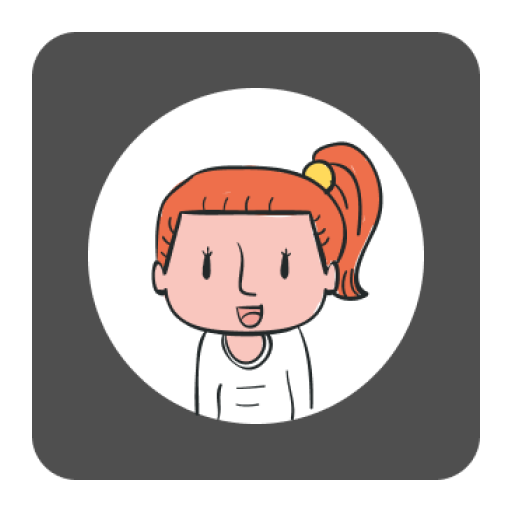
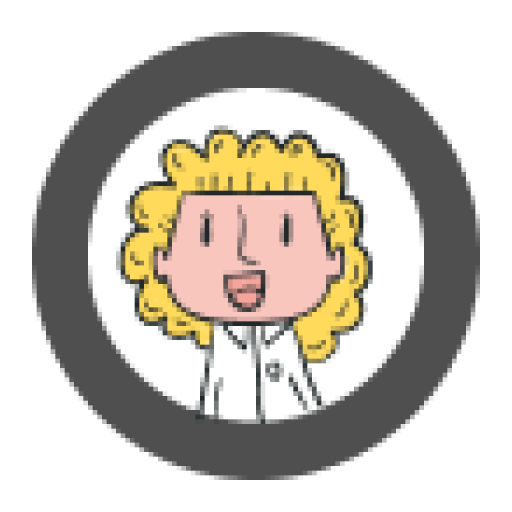
Added custom xml for edit texts and some logic

diff --git a/app/src/main/java/com/shaq/skifme/data/adapters/ObjectsListAdapter.java b/app/src/main/java/com/shaq/skifme/data/adapters/ObjectsListAdapter.java
@@ -37,7 +37,7 @@ public class ObjectsListAdapter extends RecyclerView.Adapter<RecyclerView.ViewHo
 
     class CardViewHolder extends RecyclerView.ViewHolder {
         private final TextView geoItemView, object_place_tv,last_time_tv;
-        private final ImageView avatar_img;
+        private final ImageView avatar_img,ellipse_back_iv;
         private final TextView battery_title;
         private final ConstraintLayout cv_wrapper;
 
@@ -49,6 +49,7 @@ public class ObjectsListAdapter extends RecyclerView.Adapter<RecyclerView.ViewHo
             battery_title = itemView.findViewById(R.id.battery_lvl_tv);
             cv_wrapper = itemView.findViewById(R.id.cv_wrapper);
             last_time_tv = itemView.findViewById(R.id.last_time_tv);
+            ellipse_back_iv = itemView.findViewById(R.id.ellipse_back_iv);
 
             itemView.setOnClickListener(new View.OnClickListener() {
                 @Override public void onClick(View v) {
@@ -66,7 +67,7 @@ public class ObjectsListAdapter extends RecyclerView.Adapter<RecyclerView.ViewHo
     class ButtonViewHolder extends RecyclerView.ViewHolder {
         private final ImageView add_object_btn;
         private final TextView geoItemView, battery_title, object_place_tv,last_time_tv;
-        private final ImageView avatar_img, signal_img,battery_lvl;
+        private final ImageView avatar_img, signal_img,battery_lvl,ellipse_back_iv;
 
         private ButtonViewHolder(View itemView, final Context context) {
             super(itemView);
@@ -78,6 +79,7 @@ public class ObjectsListAdapter extends RecyclerView.Adapter<RecyclerView.ViewHo
             battery_title = itemView.findViewById(R.id.battery_lvl_tv);
             object_place_tv = itemView.findViewById(R.id.object_place_tv);
             last_time_tv = itemView.findViewById(R.id.last_time_tv);
+            ellipse_back_iv = itemView.findViewById(R.id.ellipse_back_iv);
             itemView.setOnClickListener(new View.OnClickListener() {
                 @Override public void onClick(View v) {
                     if(mContext instanceof TopLevelActivity){
@@ -151,6 +153,7 @@ public class ObjectsListAdapter extends RecyclerView.Adapter<RecyclerView.ViewHo
                 holder.geoItemView.setText(objects.getName());
                 holder.object_place_tv.setText(objects.getCurrentPlace());
                 holder.battery_title.setText(String.valueOf(objects.getBatteryLevel())+"%");
+                holder.last_time_tv.setText(String.valueOf(objects.getLastOnline()+" мин. назад"));
                 holder.cv_wrapper.setBackgroundResource(R.color.white);
                 if(objects.isAlert()) {
                     holder.cv_wrapper.setBackgroundResource(R.color.colorAlert);
@@ -168,6 +171,7 @@ public class ObjectsListAdapter extends RecyclerView.Adapter<RecyclerView.ViewHo
                 holder1.object_place_tv.setVisibility(View.INVISIBLE);
                 holder1.battery_lvl.setVisibility(View.INVISIBLE);
                 holder1.last_time_tv.setVisibility(View.INVISIBLE);
+                holder1.ellipse_back_iv.setVisibility(View.INVISIBLE);
                 break;
 
         }

diff --git a/app/src/main/java/com/shaq/skifme/ui/fragments/AddObjectFragment.java b/app/src/main/java/com/shaq/skifme/ui/fragments/AddObjectFragment.java
@@ -1,15 +1,20 @@
 package com.shaq.skifme.ui.fragments;
 
+import android.content.DialogInterface;
 import android.content.Intent;
+import android.content.res.Resources;
 import android.os.Bundle;
 import android.support.annotation.NonNull;
 import android.support.annotation.Nullable;
 import android.support.v4.app.Fragment;
+import android.support.v7.app.AlertDialog;
 import android.support.v7.widget.RecyclerView;
 import android.support.v7.widget.Toolbar;
+import android.util.Log;
 import android.view.LayoutInflater;
 import android.view.View;
 import android.view.ViewGroup;
+import android.widget.ImageView;
 import android.widget.TextView;
 
 import com.shaq.skifme.R;
@@ -27,7 +32,8 @@ public class AddObjectFragment extends Fragment implements View.OnClickListener 
     private  String cookie;
     private String TAG = "DevicesFr";
     private List<DevicesRes>  dataDevices;
-    private TextView qr_text_button;
+    private ImageView qr_text_button,add_avatar_iv;
+    AlertDialog.Builder mAlertBuilder;
 
     @Nullable
     @Override
@@ -48,8 +54,13 @@ public class AddObjectFragment extends Fragment implements View.OnClickListener 
         super.onStart();
 
         rootView = getView();
-        qr_text_button= rootView.findViewById(R.id.qr_text);
+        qr_text_button= rootView.findViewById(R.id.qr_iv);
+        add_avatar_iv = rootView.findViewById(R.id.add_avatar_iv);
+
+        add_avatar_iv.setOnClickListener(this);
         qr_text_button.setOnClickListener(this);
+
+        settingAvatarDialog();
 
         cookie = mDataManager.getPreferencesManager().getCookie();
 
@@ -68,14 +79,35 @@ public class AddObjectFragment extends Fragment implements View.OnClickListener 
     @Override
     public void onClick(View v) {
         switch (v.getId()) {
-            case R.id.qr_text:
+            case R.id.qr_iv:
                 startQrActivity();
                 break;
-
+            case R.id.add_avatar_iv:
+                mAlertBuilder.show();
+                break;
             case R.id.menu_map:
                 break;
-
         }
+    }
+
+    public void settingAvatarDialog() {
+        Resources res = getResources();
+        final String[] avatars = res.getStringArray(R.array.avatar_methods_array);
+
+        mAlertBuilder = new AlertDialog.Builder(getContext());
+        mAlertBuilder.setTitle(R.string.pick_avatar)
+                .setNegativeButton(R.string.cancel, new DialogInterface.OnClickListener() {
+                    public void onClick(DialogInterface dialog, int id) {
+
+                    }
+                })
+                .setItems(R.array.avatar_methods_array, new DialogInterface.OnClickListener() {
+                    public void onClick(DialogInterface dialog, int which) {
+
+                        Log.d(TAG,"Choose "+avatars[which]);
+                    }
+                });
+        //TODO: Change UI Language
     }
 
     private void startQrActivity () {

diff --git a/app/src/main/java/com/shaq/skifme/ui/fragments/MapFragment.java b/app/src/main/java/com/shaq/skifme/ui/fragments/MapFragment.java
@@ -282,7 +282,7 @@ public class MapFragment extends Fragment implements OnMapReadyCallback, View.On
                                             mLastKnownLocation.getLongitude()), DEFAULT_ZOOM));
                             MarkerOptions mp = new MarkerOptions();
                             mp.position(new LatLng(mLastKnownLocation.getLatitude(), mLastKnownLocation.getLongitude()));
-                            mp.icon(BitmapDescriptorFactory.fromResource(R.mipmap.my_location));
+                            mp.icon(BitmapDescriptorFactory.fromResource(R.mipmap.avatar_cv));
                             Log.d(TAG,(String.valueOf(mLastKnownLocation.getLatitude() + " "+ String.valueOf(mLastKnownLocation.getLongitude()))));
 
                             mMap.clear();
